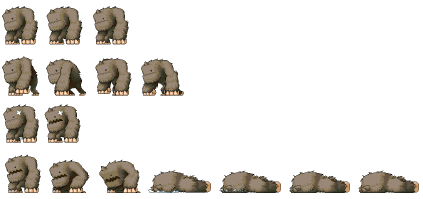
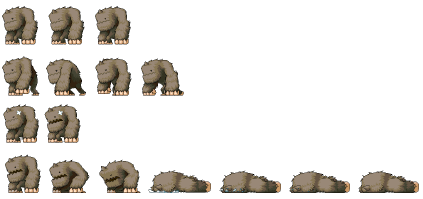
fixed yetti

Changed region(s): [[0.0922, 0.0302, 0.3073, 0.2412]]

diff --git a/oop2_proj/src/FileManager.cpp b/oop2_proj/src/FileManager.cpp
@@ -423,7 +423,7 @@ void FileManager::createSnowMonstersAnimeData()
 	//	Operation::Dead), 0.15f, true);
 
 	setCurrentData(m_monsterData[LEVEL2][MONSTER3], Stay, movableAnimationSet
-	({ 40, 40 }, { 0, 6 }, 7,3, Stay), 0.02f, false);
+	({ 38, 40 }, { 1, 6 }, 8,3, Stay), 0.02f, false);
 
 	//setCurrentData(m_monsterData[LEVEL2][MONSTER3], Walk, movableAnimationSet
 	//({ 240, 115 }, { 480, 5 }, 2, Walk), 0.01f, false);
